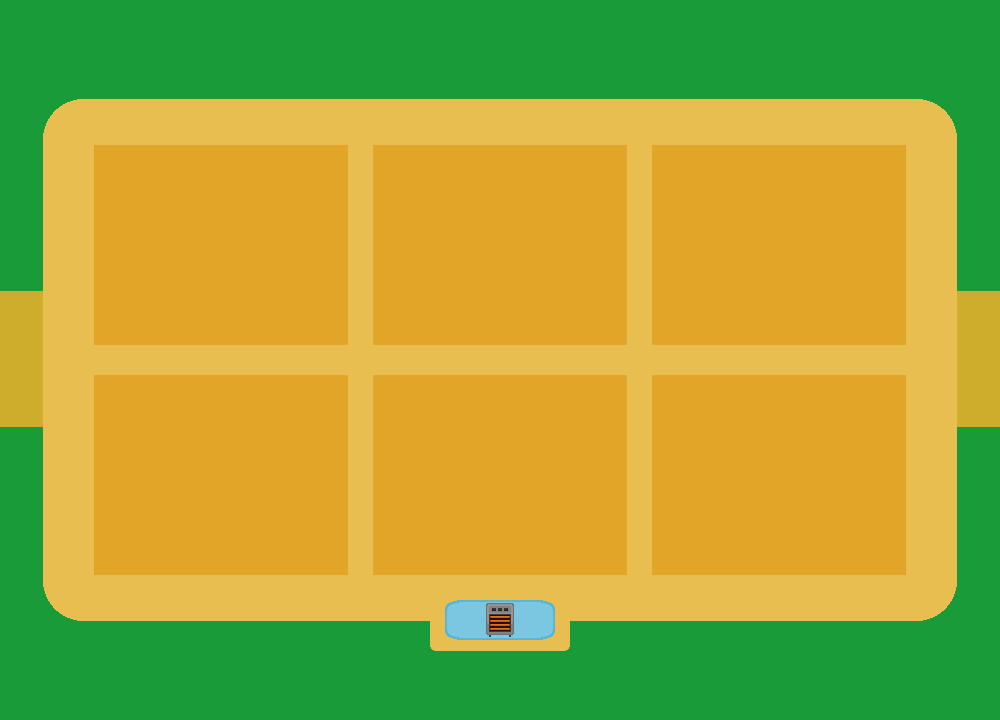
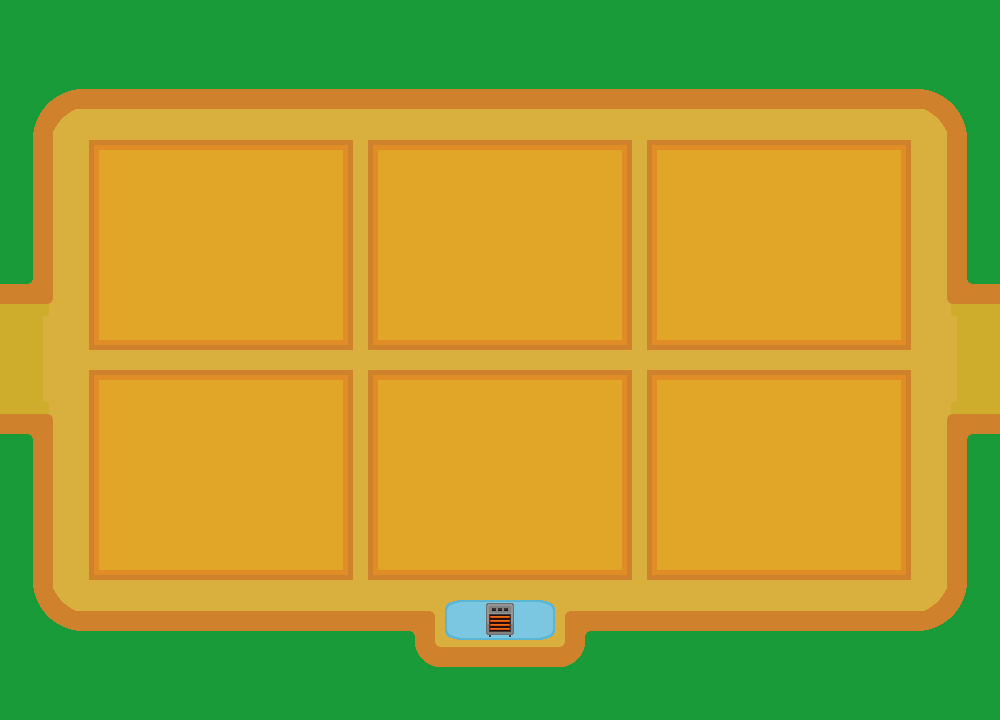
Modificación de las imagenes de fondo del Zoologico

Changed region(s): [[0.0, 0.1222, 1.0, 0.9472]]

diff --git a/ProyectoFinal/src/main/java/Vistas/Utils/PopupSelect.java b/ProyectoFinal/src/main/java/Vistas/Utils/PopupSelect.java
@@ -7,6 +7,7 @@ import java.awt.event.MouseListener;
 
 public class PopupSelect extends CuadroTexto {
     private JPopupMenu[] popupSelect;
+    private int[] cantidadMenus;
     private String fuente;
     private int index;
     private boolean usable;
@@ -17,14 +18,18 @@ public class PopupSelect extends CuadroTexto {
         this.addMouseListener(new LabelListener());
         usable = true;
         popupSelect = new JPopupMenu[6];
-        for(int i=0; i<6; i++)
+        cantidadMenus = new int[6];
+        for(int i=0; i<6; i++) {
             popupSelect[i] = new JPopupMenu();
+            cantidadMenus[i] = 0;
+        }
     }
 
     public void addMenuItem(JMenuItem menuItem, int index) {
         this.index = index;
         menuItem.setFont(new Font(fuente, Font.PLAIN, 15));
         popupSelect[this.index].add(menuItem);
+        cantidadMenus[this.index]++;
     }
 
     public void setIndex(int index) { this.index=index; }
@@ -47,6 +52,8 @@ public class PopupSelect extends CuadroTexto {
         @Override
         public void mousePressed(MouseEvent event) {
             if(usable) {
+                if(cantidadMenus[index]==0)
+                    setText(" -- Selección Vacia --");
                 popupSelect[index].show(event.getComponent(), 0, 20);
             }
         }

diff --git a/ProyectoFinal/src/main/java/Vistas/Paneles/PanelRecinto.java b/ProyectoFinal/src/main/java/Vistas/Paneles/PanelRecinto.java
@@ -33,7 +33,7 @@ public class PanelRecinto extends JPanel implements Runnable{
         this.setOpaque(false);
         InteraccionRecinto listenerRecinto = new InteraccionRecinto();
         OpcionesAnimal listenerOpciones = new OpcionesAnimal();
-        botonComprar = new Boton(Color.BLACK, true, "imgComprarRecinto.png");
+        botonComprar = new Boton(Color.BLACK, true, "imgRecinto"+recinto.getHabitat().getTipo().getPrecioRecinto()+".png");
         botonComprar.addActionListener(listenerRecinto);
         addComp(botonComprar,25,50,200,100);
         botonInfo = new Boton(Color.BLACK, true, "imgBotonInfo.png");
@@ -118,6 +118,7 @@ public class PanelRecinto extends JPanel implements Runnable{
                 }
                 if(recinto.getAdquirido()) {
                     PanelLinker.getPanelMenu().updateDinero(PanelLinker.getPanelPrincipal().getZoologico());
+                    PanelLinker.getPanelMenu().getAddAnimal().setText(" > Presione Aquí <");
                     togglePanelSelect();
                 }
                 return;

diff --git a/ProyectoFinal/src/main/java/Vistas/Paneles/PanelZoologico.java b/ProyectoFinal/src/main/java/Vistas/Paneles/PanelZoologico.java
@@ -44,7 +44,7 @@ public class PanelZoologico extends JPanel {
         bTiendas = new Boton[4];
         bOpciones = new Boton[3];
         textoInfo =  new CuadroTexto[2];
-        textoInfo[0] = new CuadroTexto("", new Color(0,0,0,0), Color.BLACK,"Arial",1);
+        textoInfo[0] = new CuadroTexto("", new Color(0,0,0,0), Color.BLACK,"Arial",1,16);
         textoInfo[0].setBorder(BorderFactory.createLineBorder( new Color(0,0,0,0), 5));
         addComp(textoInfo[0],10, 654,100, 30);
         textoInfo[1] = new CuadroTexto("Precio Tiendas: "+zoologico.getPrecioTienda()+" $","Arial",1,13);
@@ -147,7 +147,7 @@ public class PanelZoologico extends JPanel {
         textoInfo[0].setBackground(new Color(141,141,141));
         textoInfo[0].setForeground(Color.BLACK);
         textoInfo[0].setBorder(BorderFactory.createLineBorder(Color.BLACK, 3));
-        textoInfo[0].setBounds(10, 654, text.length()*7+20, 30);
+        textoInfo[0].setBounds(10, 654, text.length()*8, 30);
         textoInfo[0].setText(text);
         textoInfoAux = !textoInfoAux;
     }

diff --git a/ProyectoFinal/src/main/java/Modelos/Utils/Recinto.java b/ProyectoFinal/src/main/java/Modelos/Utils/Recinto.java
@@ -1,6 +1,9 @@
 package Modelos.Utils;
 
 import Modelos.Enumeration.TipoAnimal;
+import Modelos.Exceptions.MaximoAnimalesRecintoException;
+import Modelos.Exceptions.NombreVacioException;
+import Vistas.Paneles.PanelLinker;
 
 import java.util.ArrayList;
 
@@ -66,12 +69,15 @@ public class Recinto {
         }
     }
 
-    public int getPenalizacion() {
-        return penalizacion;
+    public void comprarAnimal(String nombre) throws Exception {
+        if(nombre.isEmpty()) {
+            throw new NombreVacioException("Nombre no ingresado");
+        }
+        listaAnimales.add(new AnimalFactory().crearAnimal(tipo, nombre));
     }
 
-    public void comprarAnimal(String nombre) {
-        listaAnimales.add(new AnimalFactory().crearAnimal(tipo, nombre));
+    public int getPenalizacion() {
+        return penalizacion;
     }
     public ArrayList<Animal> getListaAnimales() { return listaAnimales; }
     public TipoAnimal getTipo() { return tipo; }

diff --git a/ProyectoFinal/src/main/java/Vistas/Paneles/PanelMenu.java b/ProyectoFinal/src/main/java/Vistas/Paneles/PanelMenu.java
@@ -100,6 +100,8 @@ public class PanelMenu extends JPanel {
 
     public PanelComida getPanelComida() { return panelComida; }
 
+    public PopupSelect getAddAnimal() { return addAnimal; }
+
     private class SelectAnimal implements ActionListener {
         @Override
         public void actionPerformed(ActionEvent event) {
@@ -119,10 +121,6 @@ public class PanelMenu extends JPanel {
         @Override
         public void actionPerformed(ActionEvent event) {
             PanelLinker.getPanelZoo().toggleInfo(false,-1,null);
-            if(insertText.getText().isEmpty()) {
-                PanelLinker.getPanelZoo().setTextInfo("Nombre no ingresado");
-                return;
-            }
             for(int i=0; i<6; i++) {
                 if(habitat.getRecinto(i).getTipo() != null && habitat.getRecinto(i).getTipo() == tipoAnimal) {
                     try {

diff --git a/ProyectoFinal/src/main/java/Modelos/Enumeration/TipoHabitat.java b/ProyectoFinal/src/main/java/Modelos/Enumeration/TipoHabitat.java
@@ -2,11 +2,11 @@ package Modelos.Enumeration;
 
 public enum TipoHabitat {
     Bosque(1000, 1000,1500,0),
-    Sabana(2000, 1000,1500,1),
+    Sabana(2000, 1000,2000,1),
     Selva(2000, 1000,1500,2),
-    Acuario(3000, 1000,1500,3),
-    Desierto(3000, 1000,1500,4),
-    Artico(4000, 1000,1500,5);
+    Acuario(3000, 1500,2500,3),
+    Desierto(3000, 1500,2000,4),
+    Artico(4000, 2000,3000,5);
     private int precio;
     private int precioRecinto;
     private int precioTemperatura;

diff --git a/ProyectoFinal/src/main/java/Modelos/Exceptions/PagoInsuficienteException.java b/ProyectoFinal/src/main/java/Modelos/Exceptions/PagoInsuficienteException.java
@@ -1,6 +1,6 @@
 package Modelos.Exceptions;
 
-/** Esta excepción es resultante de un precio del producto mayor al valor de la moneda entregada */
+/** Esta excepción es resultante de tener una cantidad menor de dinero al precio de la compra */
 public class PagoInsuficienteException extends Exception {
     public PagoInsuficienteException(String errorMessage) {
         super(errorMessage);

diff --git a/ProyectoFinal/src/main/java/Modelos/Exceptions/MaximoAnimalesRecintoException.java b/ProyectoFinal/src/main/java/Modelos/Exceptions/MaximoAnimalesRecintoException.java
@@ -1,6 +1,6 @@
 package Modelos.Exceptions;
 
-/** Esta excepción es resultante de producto sin retirar del expendedor */
+/** Esta excepción es resultante de llegar al máximo de animales por recinto */
 public class MaximoAnimalesRecintoException extends Exception {
     public MaximoAnimalesRecintoException(String errorMessage) {
         super(errorMessage);

diff --git a/ProyectoFinal/src/main/java/Modelos/Exceptions/NombreVacioException.java b/ProyectoFinal/src/main/java/Modelos/Exceptions/NombreVacioException.java
@@ -1,0 +1,9 @@
+package Modelos.Exceptions;
+
+/** Esta excepción es resultante de ingresar un texto vacio como nombre de un animal */
+public class NombreVacioException extends Exception {
+    public NombreVacioException(String errorMessage) {
+        super(errorMessage);
+    }
+}
+
